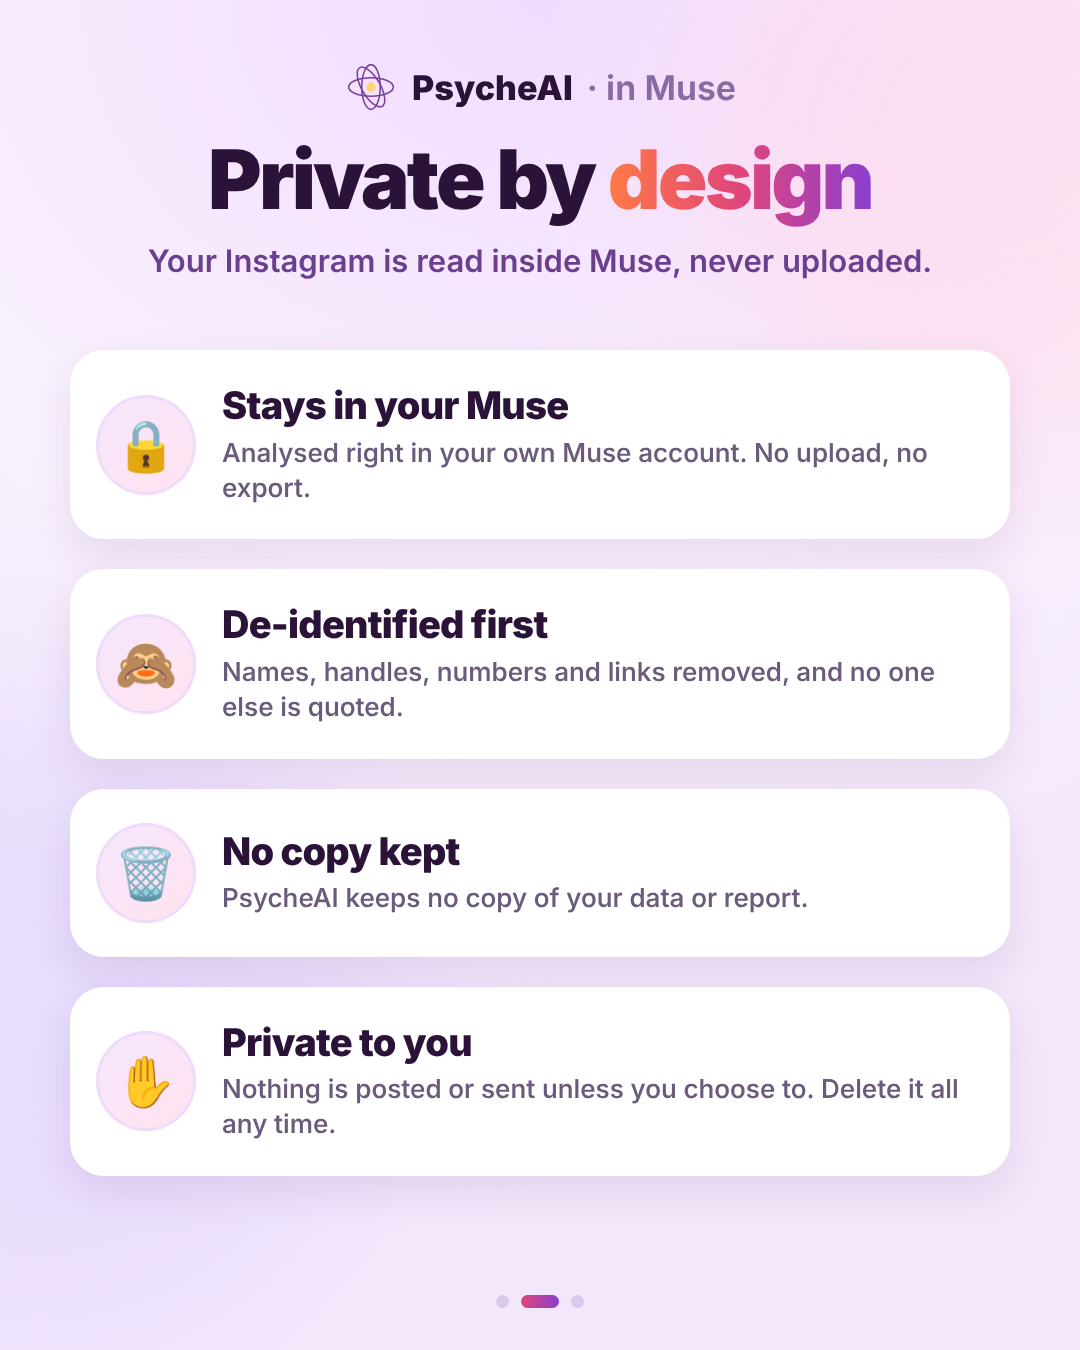
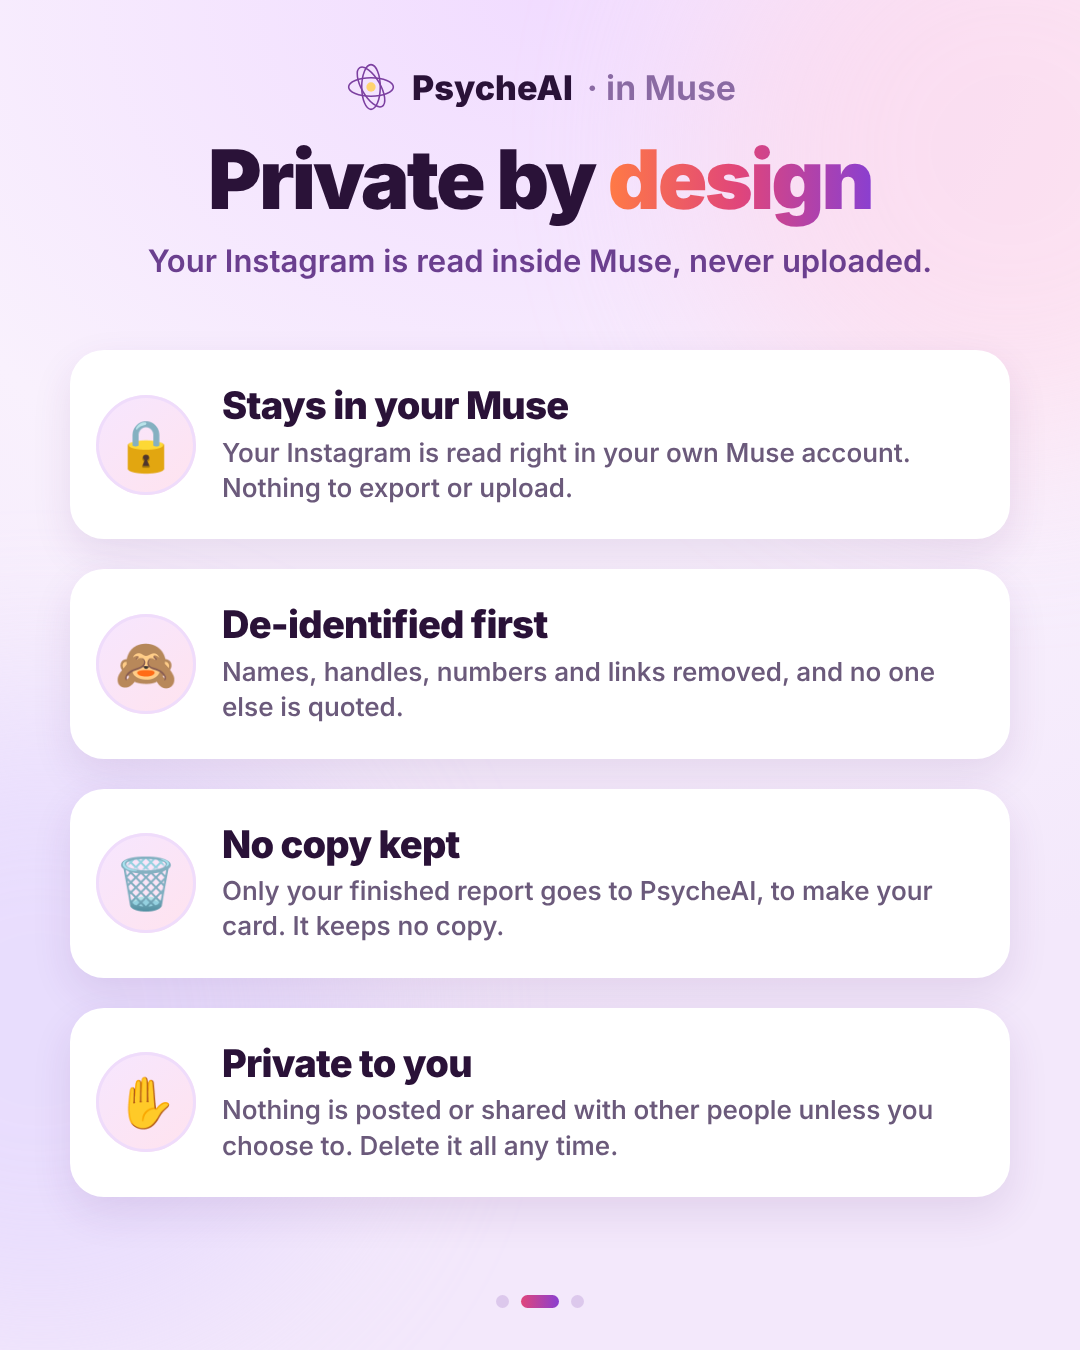
Promo carousel: privacy slide matches the welcome (only the finished report goes to PsycheAI)
Claude-Session: https://claude.ai/code/session_01Fuzsy19nH9JnecaSEhjjzX

Changed region(s): [[0.0611, 0.5911, 0.9472, 0.9022], [0.2139, 0.3111, 0.8556, 0.3733]]

diff --git a/promo/carousel-muse.html b/promo/carousel-muse.html
@@ -84,10 +84,10 @@ h1 { position: absolute; left: 60px; right: 60px; text-align: center; font-size:
   <h1>Private by <span class="grad">design</span></h1>
   <p class="lede">Your Instagram is read inside Muse, never uploaded.</p>
   <div class="cards">
-    <div class="card"><span class="icon">🔒</span><div><b>Stays in your Muse</b><span class="d">Analysed right in your own Muse account. No upload, no export.</span></div></div>
+    <div class="card"><span class="icon">🔒</span><div><b>Stays in your Muse</b><span class="d">Your Instagram is read right in your own Muse account. Nothing to export or upload.</span></div></div>
     <div class="card"><span class="icon">🙈</span><div><b>De-identified first</b><span class="d">Names, handles, numbers and links removed, and no one else is quoted.</span></div></div>
-    <div class="card"><span class="icon">🗑</span><div><b>No copy kept</b><span class="d">PsycheAI keeps no copy of your data or report.</span></div></div>
-    <div class="card"><span class="icon">✋</span><div><b>Private to you</b><span class="d">Nothing is posted or sent unless you choose to. Delete it all any time.</span></div></div>
+    <div class="card"><span class="icon">🗑</span><div><b>No copy kept</b><span class="d">Only your finished report goes to PsycheAI, to make your card. It keeps no copy.</span></div></div>
+    <div class="card"><span class="icon">✋</span><div><b>Private to you</b><span class="d">Nothing is posted or shared with other people unless you choose to. Delete it all any time.</span></div></div>
   </div>
   <div class="dots"><i></i><i class="on"></i><i></i></div>
 </section>
